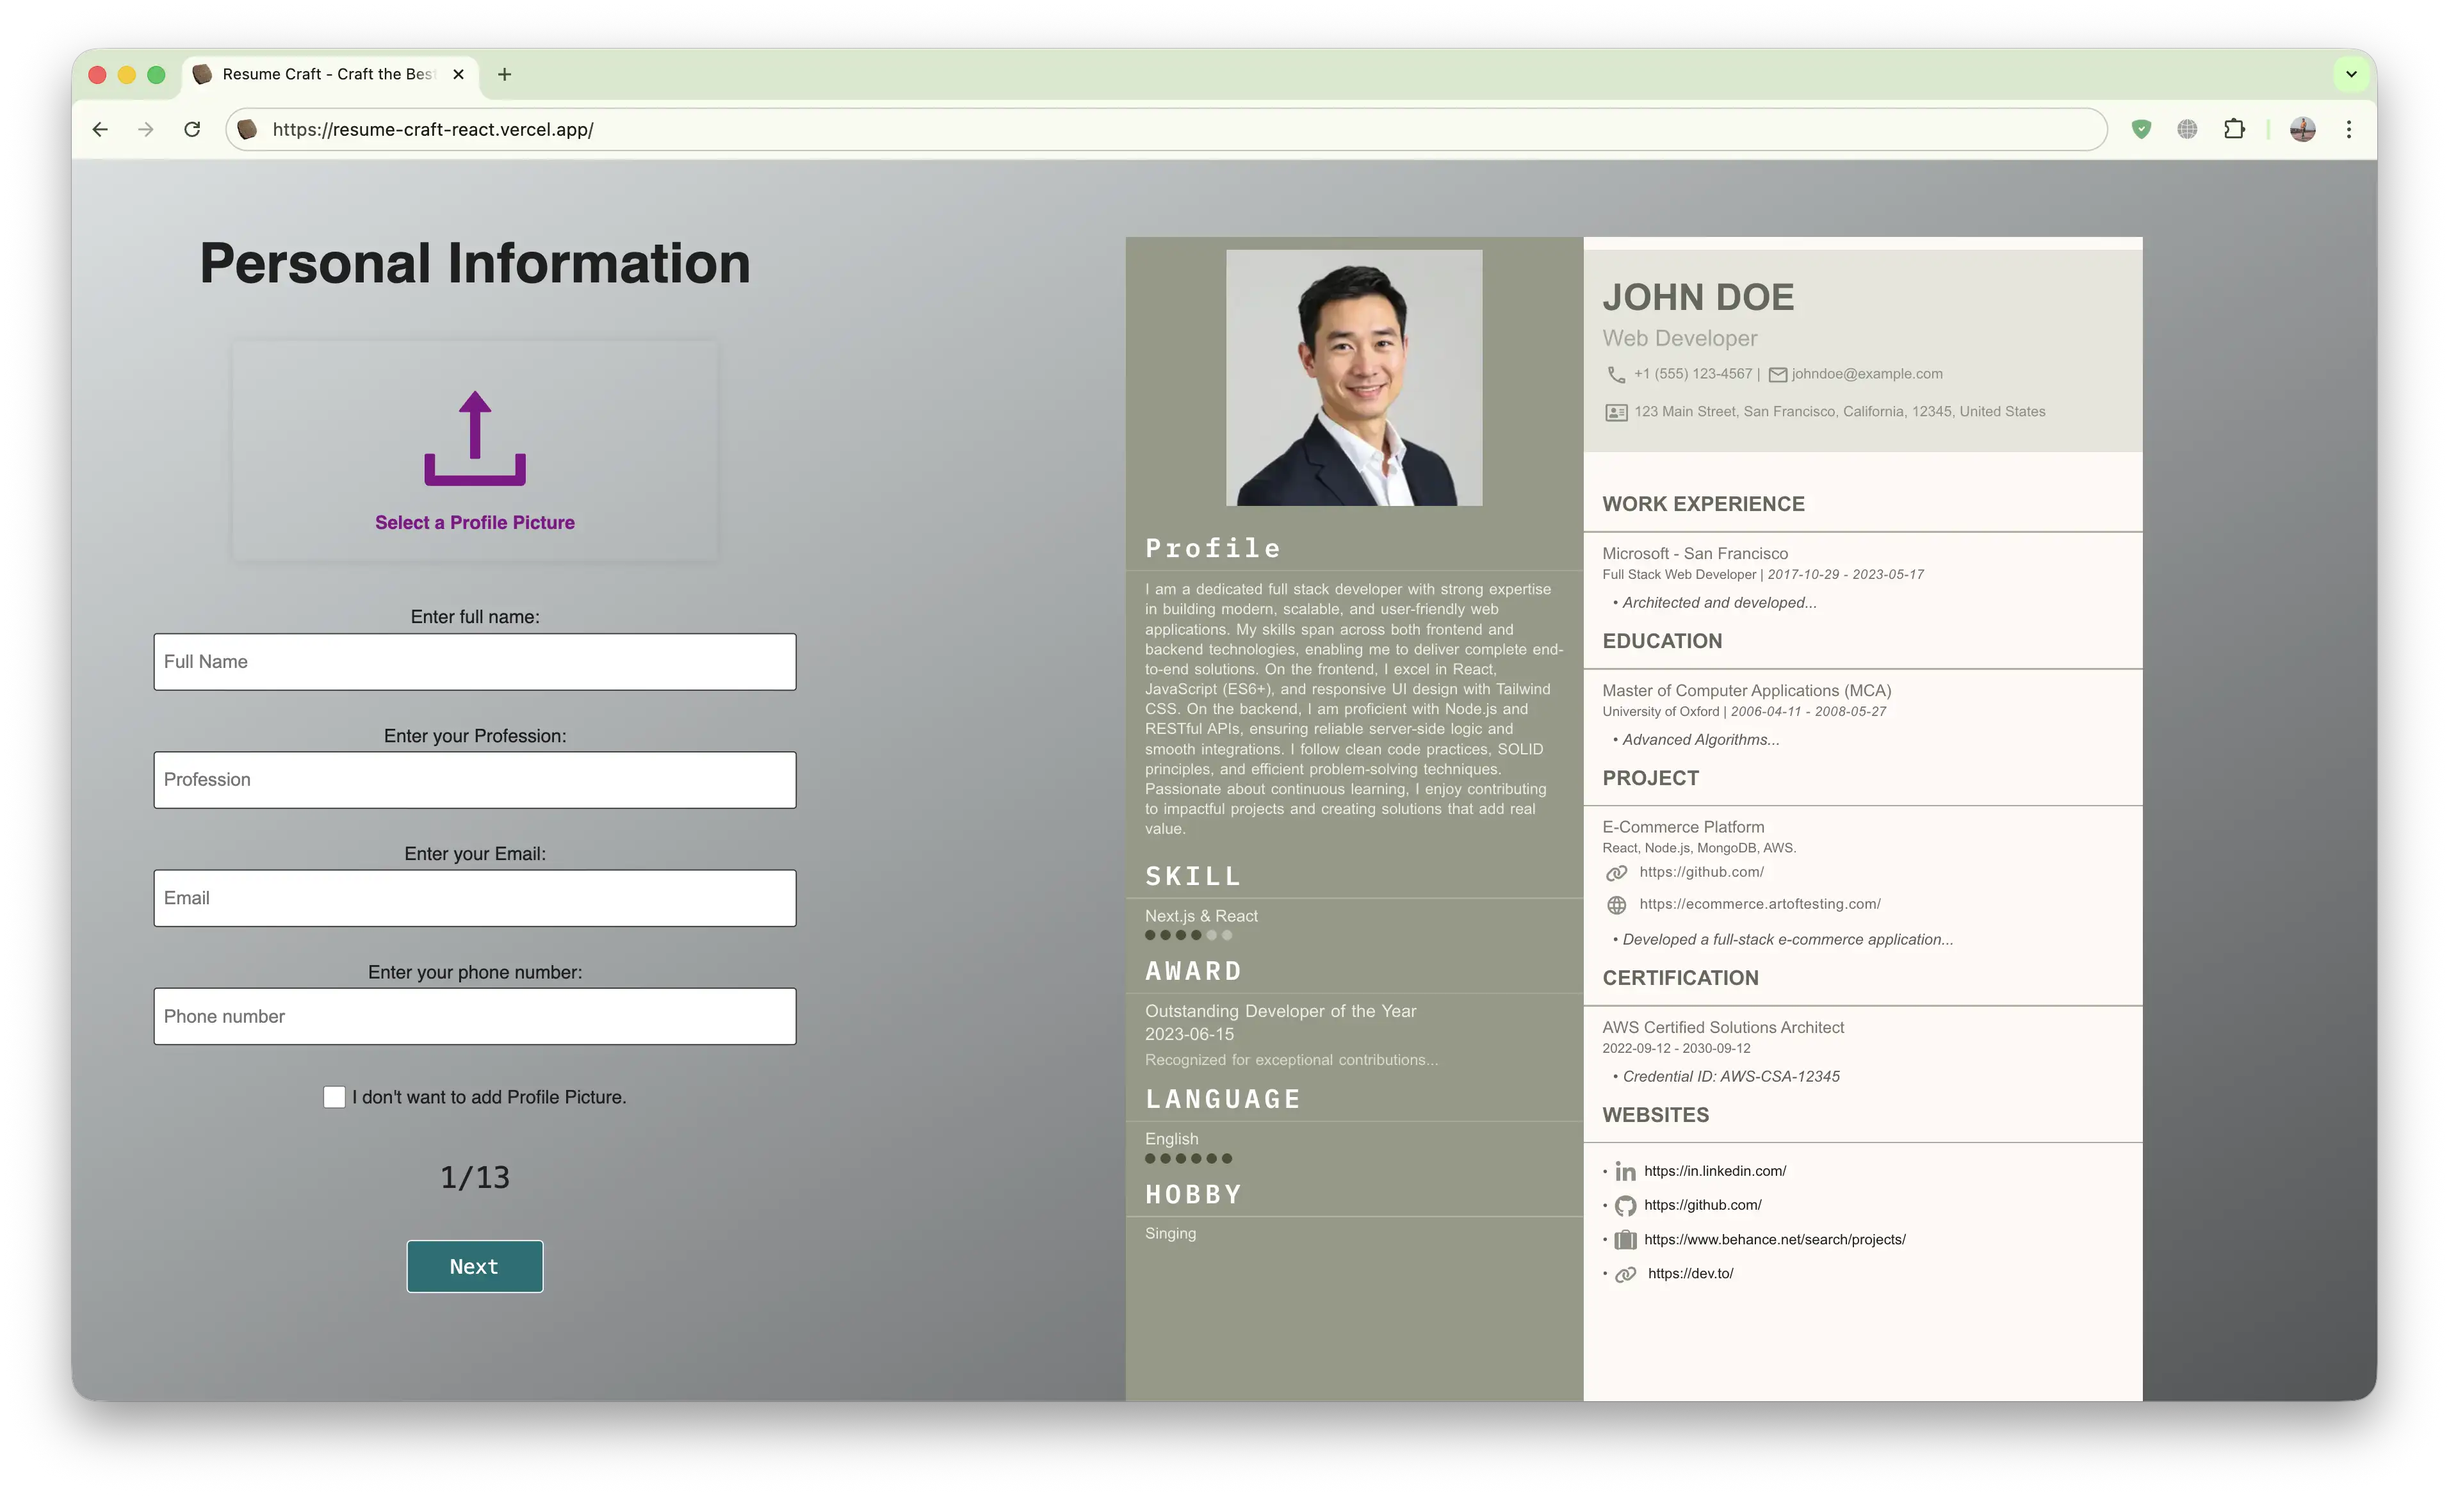
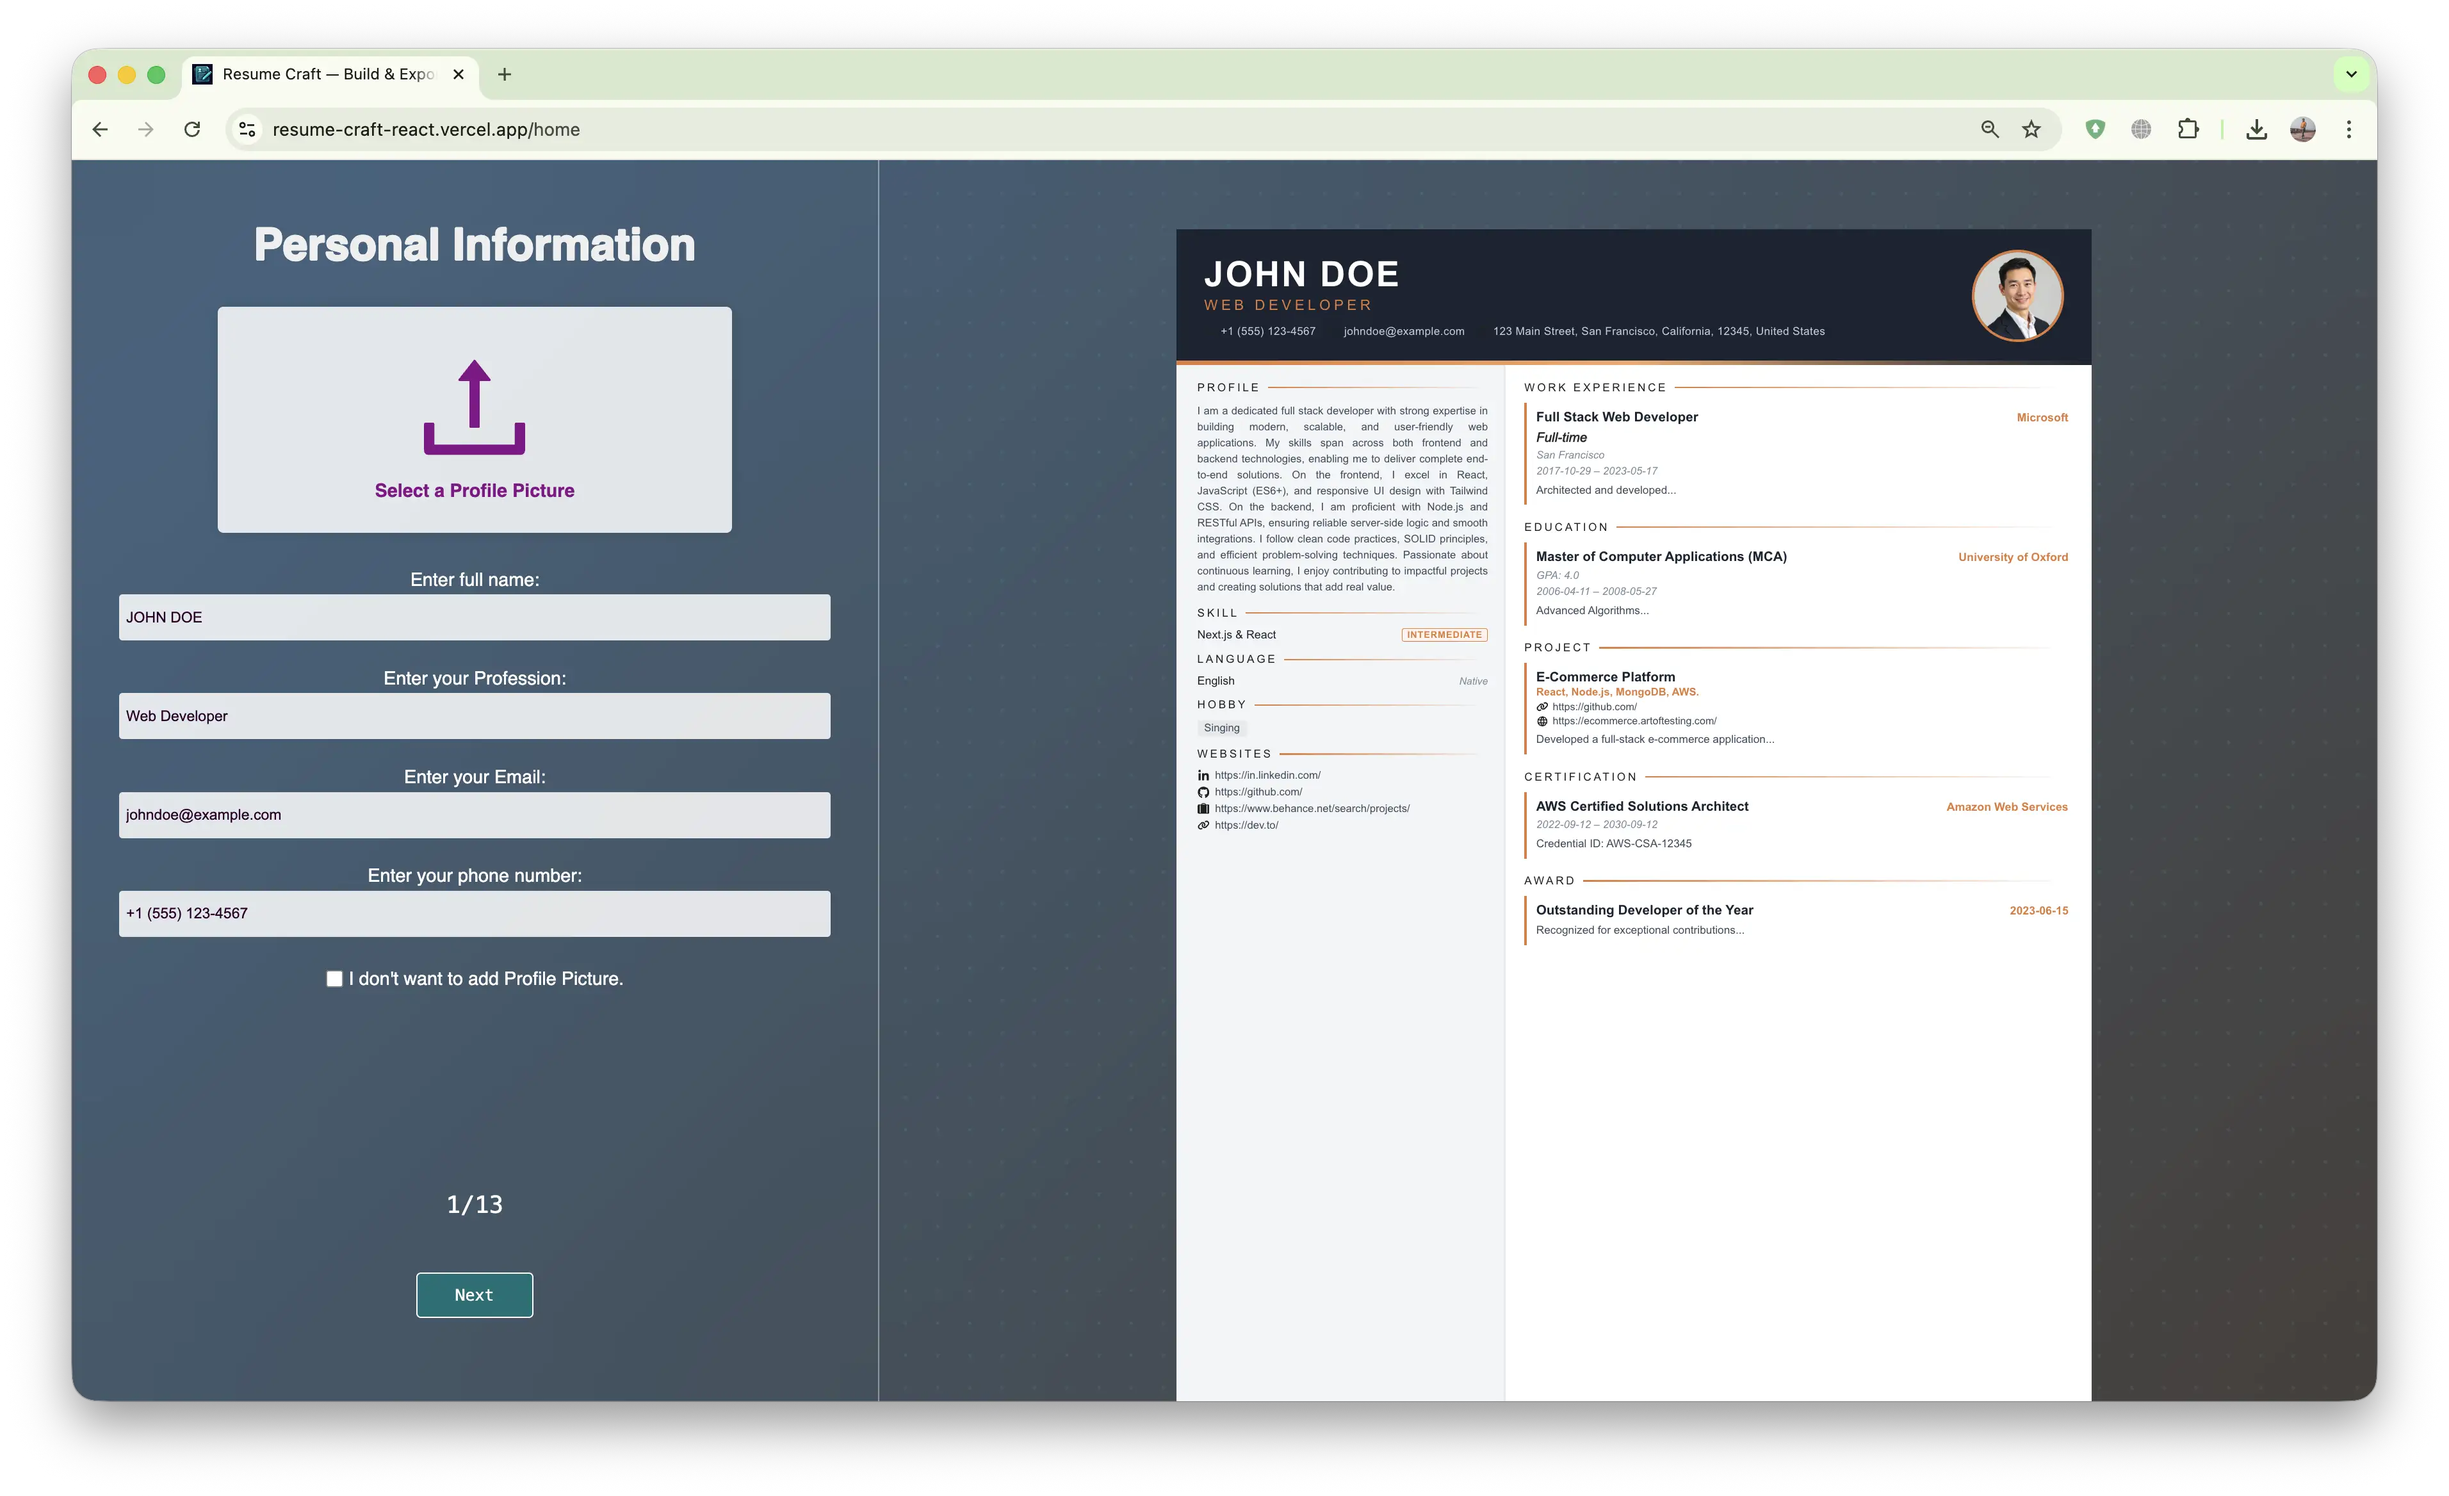
feat: add bold accent template & seo improvements
Added BoldAccent template, optimized assets (WebP/WOFF2), added SEO tags, and configured CI/Husky.

diff --git a/index.html b/index.html
@@ -8,14 +8,12 @@
     <meta name="robots" content="index, follow" />
     <meta name="theme-color" content="#000000" />
 
-    <!-- Primary -->
     <title>Resume Craft — Build & Export Professional Resumes</title>
     <meta
       name="description"
-      content="Resume Craft — a free, client-side resume builder. Choose from 3 professional templates, export ATS-friendly PDFs, and preview your resume in real time. No login, no data storage."
+      content="Resume Craft — free, client-side resume builder. 4 professional templates, ATS-friendly PDF export, real-time preview. No login, no data storage."
     />
 
-    <!-- Open Graph -->
     <meta property="og:type" content="website" />
     <meta property="og:url" content="https://resume-craft-react.vercel.app/" />
     <meta
@@ -24,11 +22,11 @@
     />
     <meta
       property="og:description"
-      content="Resume Craft — a free, client-side resume builder. Choose from 3 professional templates, export ATS-friendly PDFs, and preview your resume in real time. No login, no data storage."
+      content="Resume Craft — free, client-side resume builder. 4 professional templates, ATS-friendly PDF export, real-time preview. No login, no data storage."
     />
     <meta
       property="og:image"
-      content="https://resume-craft-react.vercel.app/og-image.png"
+      content="https://resume-craft-react.vercel.app/og-image.webp"
     />
     <meta
       property="og:image:alt"
@@ -37,7 +35,6 @@
     <meta property="og:image:width" content="1200" />
     <meta property="og:image:height" content="630" />
 
-    <!-- Twitter Card -->
     <meta name="twitter:card" content="summary_large_image" />
     <meta
       name="twitter:title"
@@ -45,11 +42,26 @@
     />
     <meta
       name="twitter:description"
-      content="Resume Craft — a free, client-side resume builder. Choose from 3 professional templates, export ATS-friendly PDFs, and preview your resume in real time. No login, no data storage."
+      content="Resume Craft — free, client-side resume builder. 4 professional templates, ATS-friendly PDF export, real-time preview. No login, no data storage."
     />
     <meta
       name="twitter:image"
-      content="https://resume-craft-react.vercel.app/og-image.png"
+      content="https://resume-craft-react.vercel.app/og-image.webp"
+    />
+
+    <link
+      rel="preload"
+      href="/src/assets/fonts/RubikDistressed.woff2"
+      as="font"
+      type="font/woff2"
+      crossorigin
+    />
+    <link
+      rel="preload"
+      href="/src/assets/fonts/DeliusSwashCaps.woff2"
+      as="font"
+      type="font/woff2"
+      crossorigin
     />
   </head>
   <body>

diff --git a/vite.config.js b/vite.config.js
@@ -9,4 +9,14 @@ export default defineConfig({
     setupFiles: './src/setupTests.js',
     css: true,
   },
+  build: {
+    rollupOptions: {
+      output: {
+        manualChunks: {
+          pdf: ['@react-pdf/renderer'],
+          vendor: ['react', 'react-dom', 'react-router-dom'],
+        },
+      },
+    },
+  },
 });

diff --git a/src/components/WelcomePage/WelcomePage.module.css b/src/components/WelcomePage/WelcomePage.module.css
@@ -2,6 +2,7 @@
 .welcomePage {
   width: 100%;
   height: 100vh;
+  will-change: background-position;
   overflow: hidden;
   position: relative;
   background: linear-gradient(
